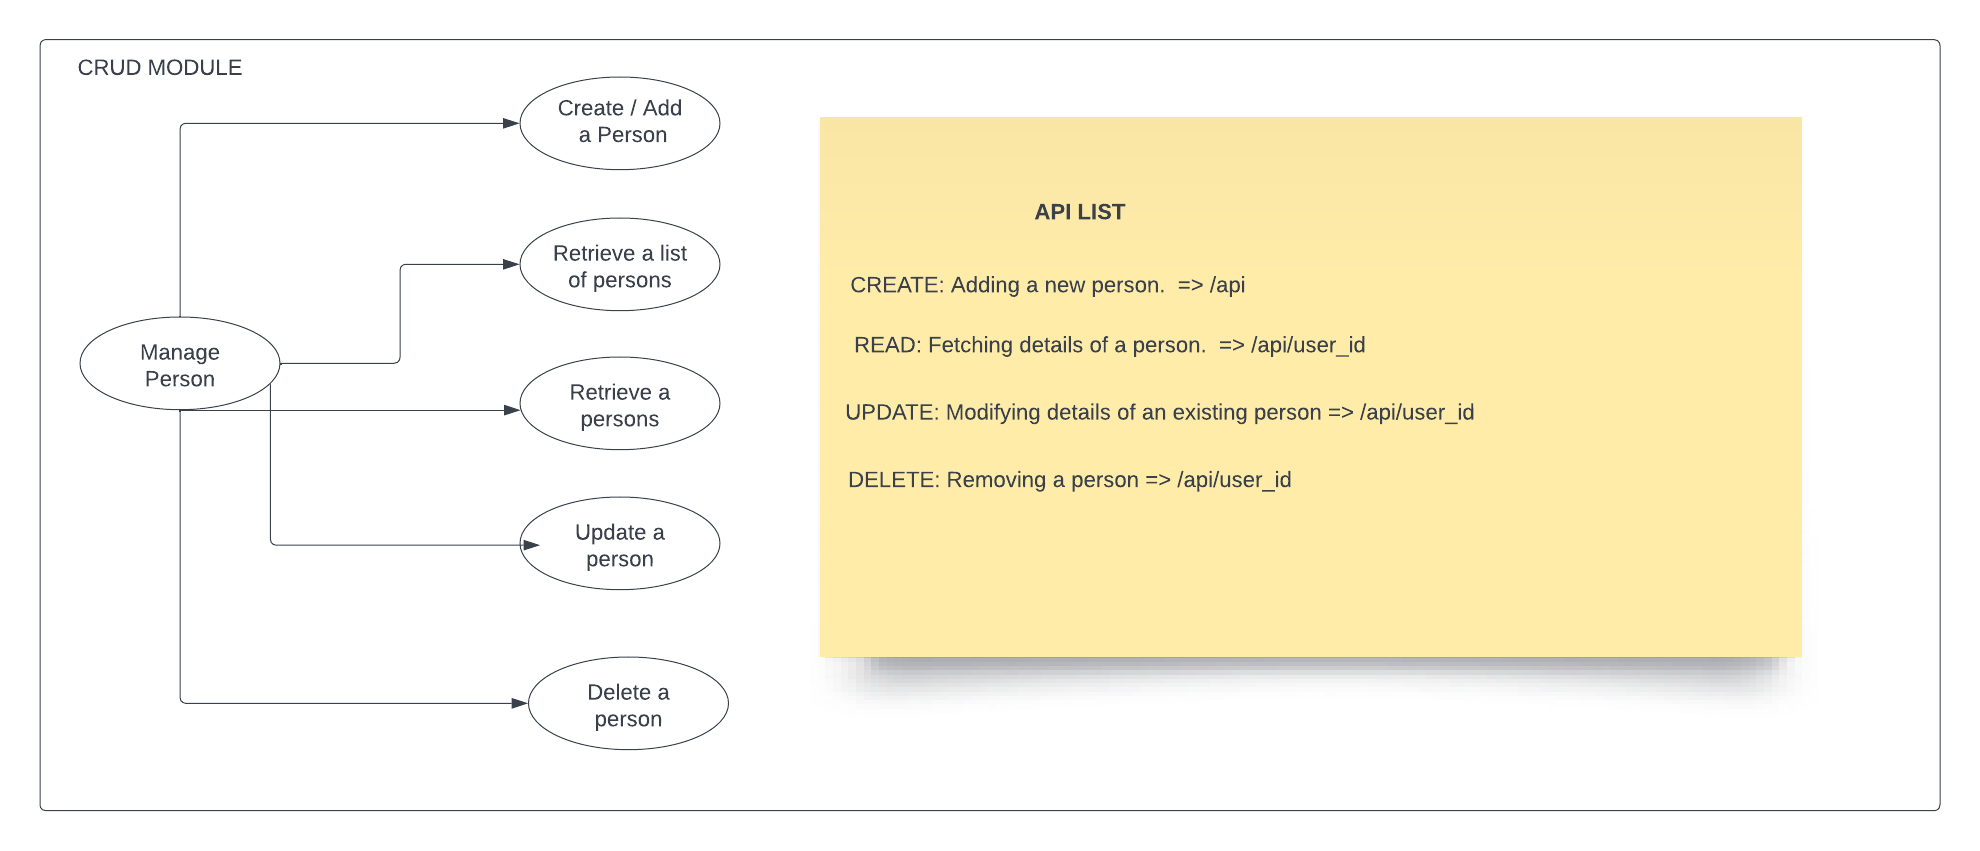
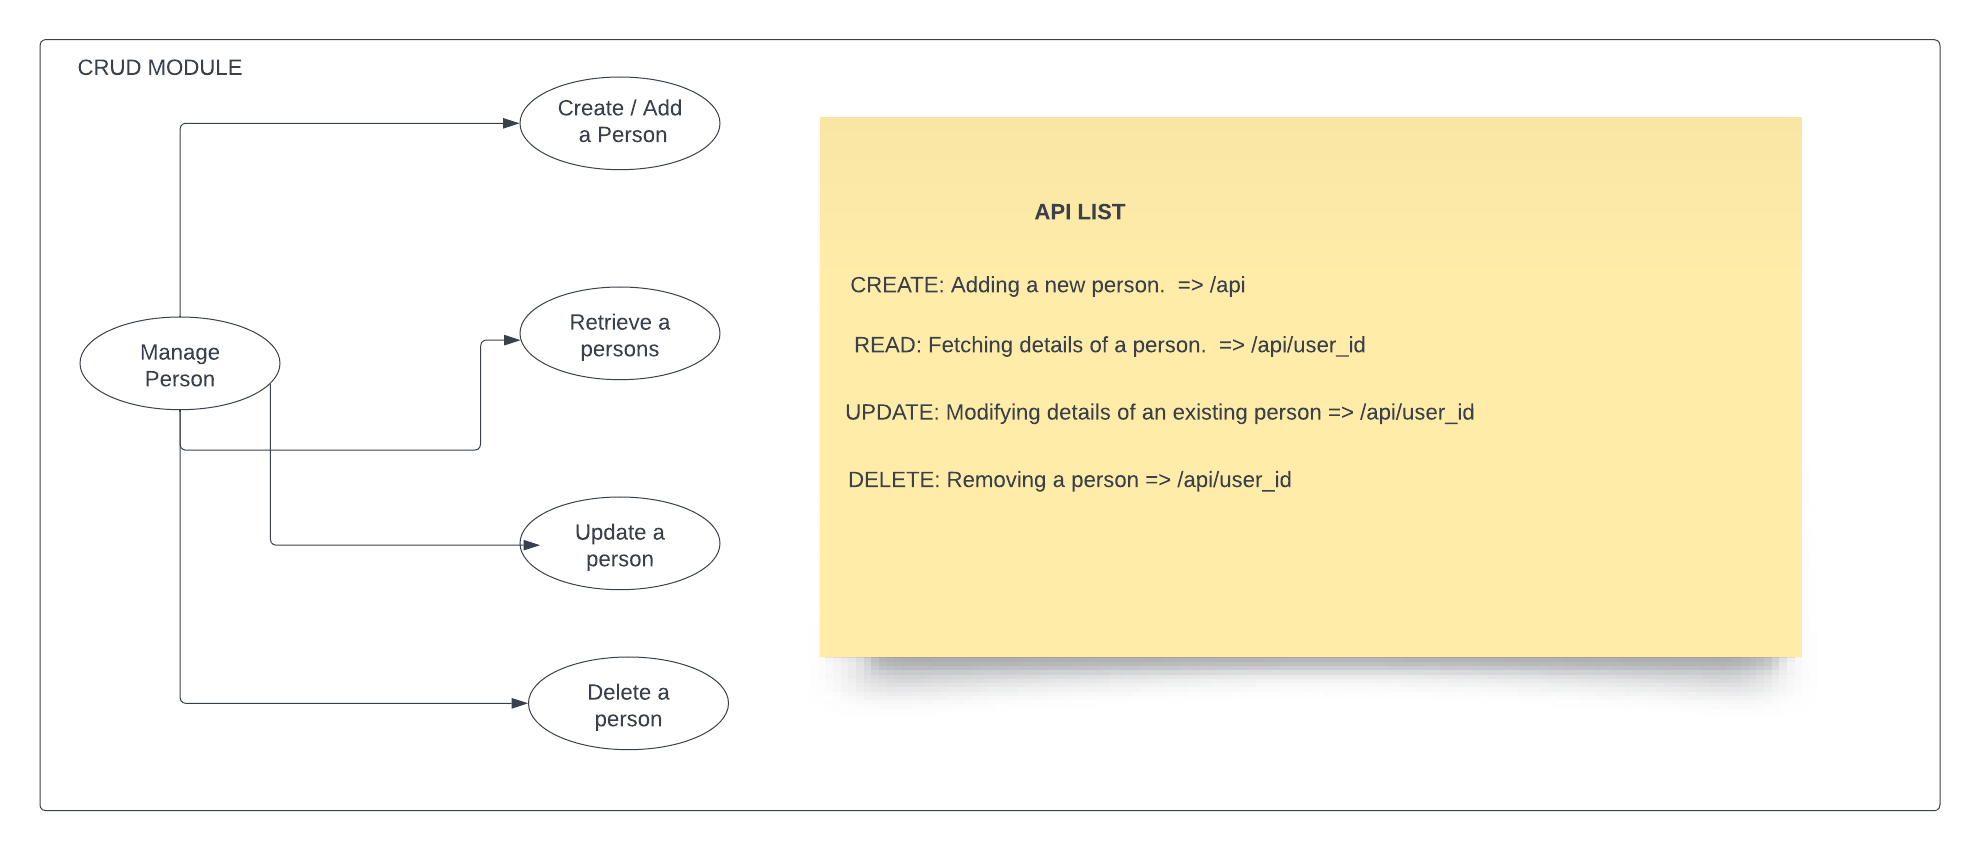
crud api

Changed region(s): [[0.2465, 0.275, 0.3697, 0.5194]]

diff --git a/controllers/personController.js b/controllers/personController.js
@@ -5,12 +5,12 @@ const { generateCrudMethods } = require("../services");
 const personCrud = generateCrudMethods(Person);
 const { raiseRecord404Error } = require("../middlewares");
 
-module.exports.getPersons = async (req, res, next) => {
-  personCrud
-    .getAll()
-    .then((data) => res.send(data))
-    .catch((err) => next(err));
-};
+// module.exports.getPersons = async (req, res, next) => {
+//   personCrud
+//     .getAll()
+//     .then((data) => res.send(data))
+//     .catch((err) => next(err));
+// };
 
 module.exports.getPerson = (req, res, next) => {
   // console.log(req.params);

diff --git a/routers/routes.js b/routers/routes.js
@@ -13,7 +13,7 @@ const {
 const router = Router();
 
 // router.get("/", getData);
-router.get("/", getPersons);
+// router.get("/", getPersons);
 router.get("/:id", getPerson);
 router.post("/", createPerson);
 router.put("/:id", updatePerson);

diff --git a/README.md b/README.md
@@ -22,15 +22,17 @@ UML Diagram: ![](docs/images/diagram.png)
 
 To use crud api an API See the list of available endpoints.
 
-`get a list persons`
-`get a single person`
+<!-- `get a list persons` -->
+
+`create a single person`
+`read a single person`
 `update a person`
 `delete a person`
 
 see sample below endpoints below.
 
 ```http
-GET     https://backend-task-wz1u.onrender.com/api
+<!-- GET     https://backend-task-wz1u.onrender.com/api -->
 GET     https://backend-task-wz1u.onrender.com/api/user_id
 POST    https://backend-task-wz1u.onrender.com/api
 UPDATE  https://backend-task-wz1u.onrender.com/api/user_id
@@ -39,11 +41,13 @@ DELETE  https://backend-task-wz1u.onrender.com/api/user_id
 
 See API Docs on Postman [CRUD](https://documenter.getpostman.com/view/6423394/2s9YC4TXhF#75bce2b0-f221-42ed-95cf-33961c229dca) API.
 
-![](docs/images/postman.jpg)
+![](docs/images/postman1.jpg)
+![](docs/images/postman2.jpg)
+![](docs/images/postma3.jpg)
 
 | Verb     | API           |
-| :------- | :------------ |
-| `GET`    | `api`         |
+| :------- | :------------ | ----- | --- |
+| <!--     | `GET`         | `api` | --> |
 | `GET`    | `api/user_id` |
 | `POST`   | `string`      |
 | `UPDATE` | `api/user_id` |
@@ -55,7 +59,7 @@ See API Docs on Postman [CRUD](https://documenter.getpostman.com/view/6423394/2s
 
 ## Responses
 
-Sample API respsonse for a successful get request list of persons
+<!-- Sample API respsonse for a successful get request list of persons
 
 ```javascript
 [
@@ -63,8 +67,9 @@ Sample API respsonse for a successful get request list of persons
     _id: 1,
     Name: "Mark Essien",
   },
-];
-```
+]; -->
+
+````
 
 Sample API respsonse for a successful get request single person
 
@@ -73,7 +78,7 @@ Sample API respsonse for a successful get request single person
     _id: 1,
     Name: "Mark Essien",
   },
-```
+````
 
 Sample API respsonse for a successful post request
 
